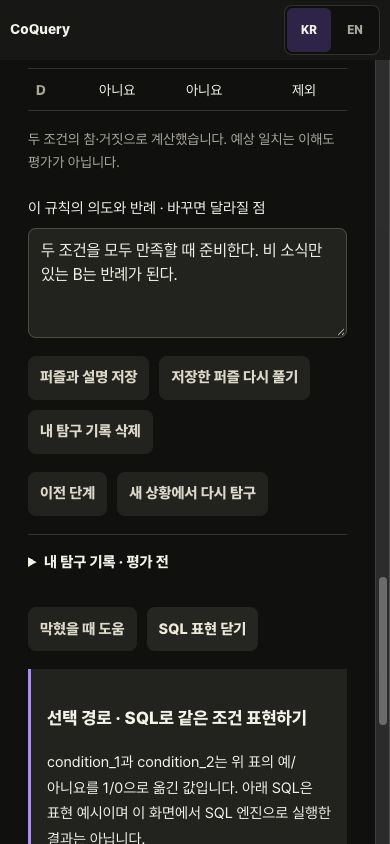
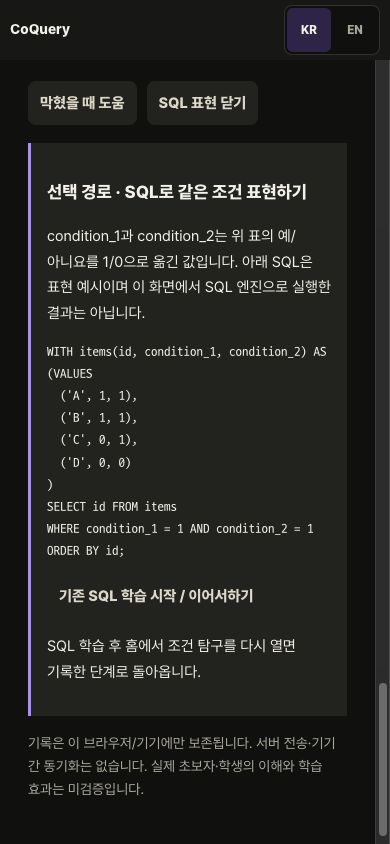
fix: verify optional SQL examples execute with real line breaks

diff --git a/app_shell/terminal_shell_prototype/exploration.js b/app_shell/terminal_shell_prototype/exploration.js
@@ -103,7 +103,10 @@
       : [];
     return s;
   }
-  root.CoqueryExploration = { fresh, restore, evaluate, same, VERSION };
+  function sqlFor(rows, mode) {
+    return `WITH items(id, condition_1, condition_2) AS (VALUES\n${rows.map((x) => `  ('${x.id}', ${+x.a}, ${+x.b})`).join(",\n")}\n)\nSELECT id FROM items\nWHERE condition_1 = 1 ${mode.toUpperCase()} condition_2 = 1\nORDER BY id;`;
+  }
+  root.CoqueryExploration = { fresh, restore, evaluate, same, sqlFor, VERSION };
   if (typeof document === "undefined") return;
   const host = document.getElementById("explorationLearning"),
     shell = document.querySelector(".app-shell");
@@ -215,7 +218,7 @@
               ? "or"
               : "and";
       const rows = s.stage === 4 ? books : s.stage === 5 ? p.rows : cards;
-      body += `<aside class="concept-notice"><h3>선택 경로 · SQL로 같은 조건 표현하기</h3><p>condition_1과 condition_2는 위 표의 예/아니요를 1/0으로 옮긴 값입니다. 아래 SQL은 표현 예시이며 이 화면에서 SQL 엔진으로 실행한 결과는 아닙니다.</p><pre class="explore-sql">${esc(`WITH items(id, condition_1, condition_2) AS (VALUES\n${rows.map((x) => `  ('${x.id}', ${+x.a}, ${+x.b})`).join(",\n")}\n)\nSELECT id FROM items\nWHERE condition_1 = 1 ${mode.toUpperCase()} condition_2 = 1\nORDER BY id;`)}</pre>${btn("기존 SQL 학습 시작 / 이어서하기", "sql-learning")}<p>SQL 학습 후 홈에서 조건 탐구를 다시 열면 기록한 단계로 돌아옵니다.</p></aside>`;
+      body += `<aside class="concept-notice"><h3>선택 경로 · SQL로 같은 조건 표현하기</h3><p>condition_1과 condition_2는 위 표의 예/아니요를 1/0으로 옮긴 값입니다. 아래 SQL은 표현 예시이며 이 화면에서 SQL 엔진으로 실행한 결과는 아닙니다.</p><pre class="explore-sql">${esc(sqlFor(rows, mode))}</pre>${btn("기존 SQL 학습 시작 / 이어서하기", "sql-learning")}<p>SQL 학습 후 홈에서 조건 탐구를 다시 열면 기록한 단계로 돌아옵니다.</p></aside>`;
     }
     body += `<p id="exploreStatus" role="status">${esc(status)}</p><p id="exploreStorage" class="concept-muted" role="status">${persistent ? "기록은 이 브라우저/기기에만 보존됩니다." : "저장소를 사용할 수 없어 현재 탭에서만 유지합니다. 탭을 닫으면 사라집니다."} 서버 전송·기기 간 동기화는 없습니다. 실제 초보자·학생의 이해와 학습 효과는 미검증입니다.</p>`;
     host.innerHTML = body;

diff --git a/docs/qa/conditions-exploration-verification-2026-10-25.ko.md b/docs/qa/conditions-exploration-verification-2026-10-25.ko.md
@@ -8,7 +8,7 @@
 |---|---|---|
 | 전체 회귀 | npm run rc:verify | 통과. 기존 SQL/CLI·Command API 121검사, 9퍼즐, 참여형 예외, 셸·방언·iOS 자산·새 조건 탐구 포함 |
 | 추가 기존 계약 | pwa_serverless_smoke.py, learning_path_smoke.py | 통과. 실제 설치형 PWA의 장기 캐시/업데이트 관찰이 아님 |
-| 조건 계산 | tests/exploration_smoke.mjs | 4항목 × 2조건의 256개 데이터 배치 × AND/OR=512 계산, 빈/전체 결과 포함. 별도 산술 기준과 대조 |
+| 조건 계산 | tests/exploration_smoke.mjs | 4항목 × 2조건의 256개 데이터 배치 × AND/OR=512 계산, 빈/전체 결과 포함. 별도 산술 기준과 대조하고 생성된 SQL 512개를 실제 SQLite(sql.js)에서 실행해 동일 결과 확인 |
 | 상태·이벤트 계약 | 같은 테스트 | 버전/잘못된 저장값 복구, 선택 정규화, 단계 미충족, 창작 저장 요건, 수정 후 결과 무효화, 편집본/저장본 분리, 재실행, HTML 이스케이프, 저장소 차단의 임시 기록 표시 통과 |
 | 브라우저 기본 여정 | 새 localhost:8803, dist/ios-shell 자산, 인앱 브라우저 | 홈→이해→안내형 빈 예상/오답/정답→독립형 A/B/C→반례 A 오답/다음 차단→B→한글 자기 설명→책 선택 A/B/C→설명→창작 실행·저장 확인 |
 | 창작 변경·복원 | 같은 브라우저 | 제목/조건 이름 변경·설명 기록·저장. 미저장 제목 변경 후 저장본 불러오기에서 원래 제목 복구. B의 두 번째 조건 변경 후 A/B 2개 결과로 재계산 확인 |
@@ -38,3 +38,7 @@
 실제 초보자 모집/관찰·독립 교육자 검토는 미실시다. 물리 iPhone·음성/로터 연속 탐색·실제 200% 확대·저장소 퇴거·설치형 PWA 업데이트/오프라인·iOS 실행은 이번 미실시 항목이다. 웹/iOS 자산 공유와 컴파일만으로 동등한 경험을 단정하지 않는다. PR의 CI/리뷰/병합 이력은 GitHub 최종 상태를 따르며 이 자체 검토를 독립 리뷰 승인으로 부르지 않는다.
 
 관련: [전환 감사](../product/transition-audit-2026-10-25.ko.md), [실제 사용자 검증과 출시 기준](../product/novice-validation-and-release-gates.ko.md).
+
+## PR #33 자동 리뷰 후 보완
+
+자동 코드 리뷰가 선택 SQL 예시의 줄바꿈이 실제 개행 대신 역슬래시+n으로 표시되어 복사 실행이 실패하는 P2 문제를 찾았다. sqlFor 생성 함수를 분리하고 실제 개행을 사용하도록 수정했다. 표시에만 의존하던 검사를 보강해 512개 참/거짓 조합의 SQL을 SQLite에서 실행·결과 비교한다. 이 검사를 CI에서 재현하도록 baseline에 잠금 의존성 설치를 추가했다. UI 자체가 SQL 엔진을 실행한다는 의미는 아니며 선택 표현의 유효성을 검증한 것이다.
